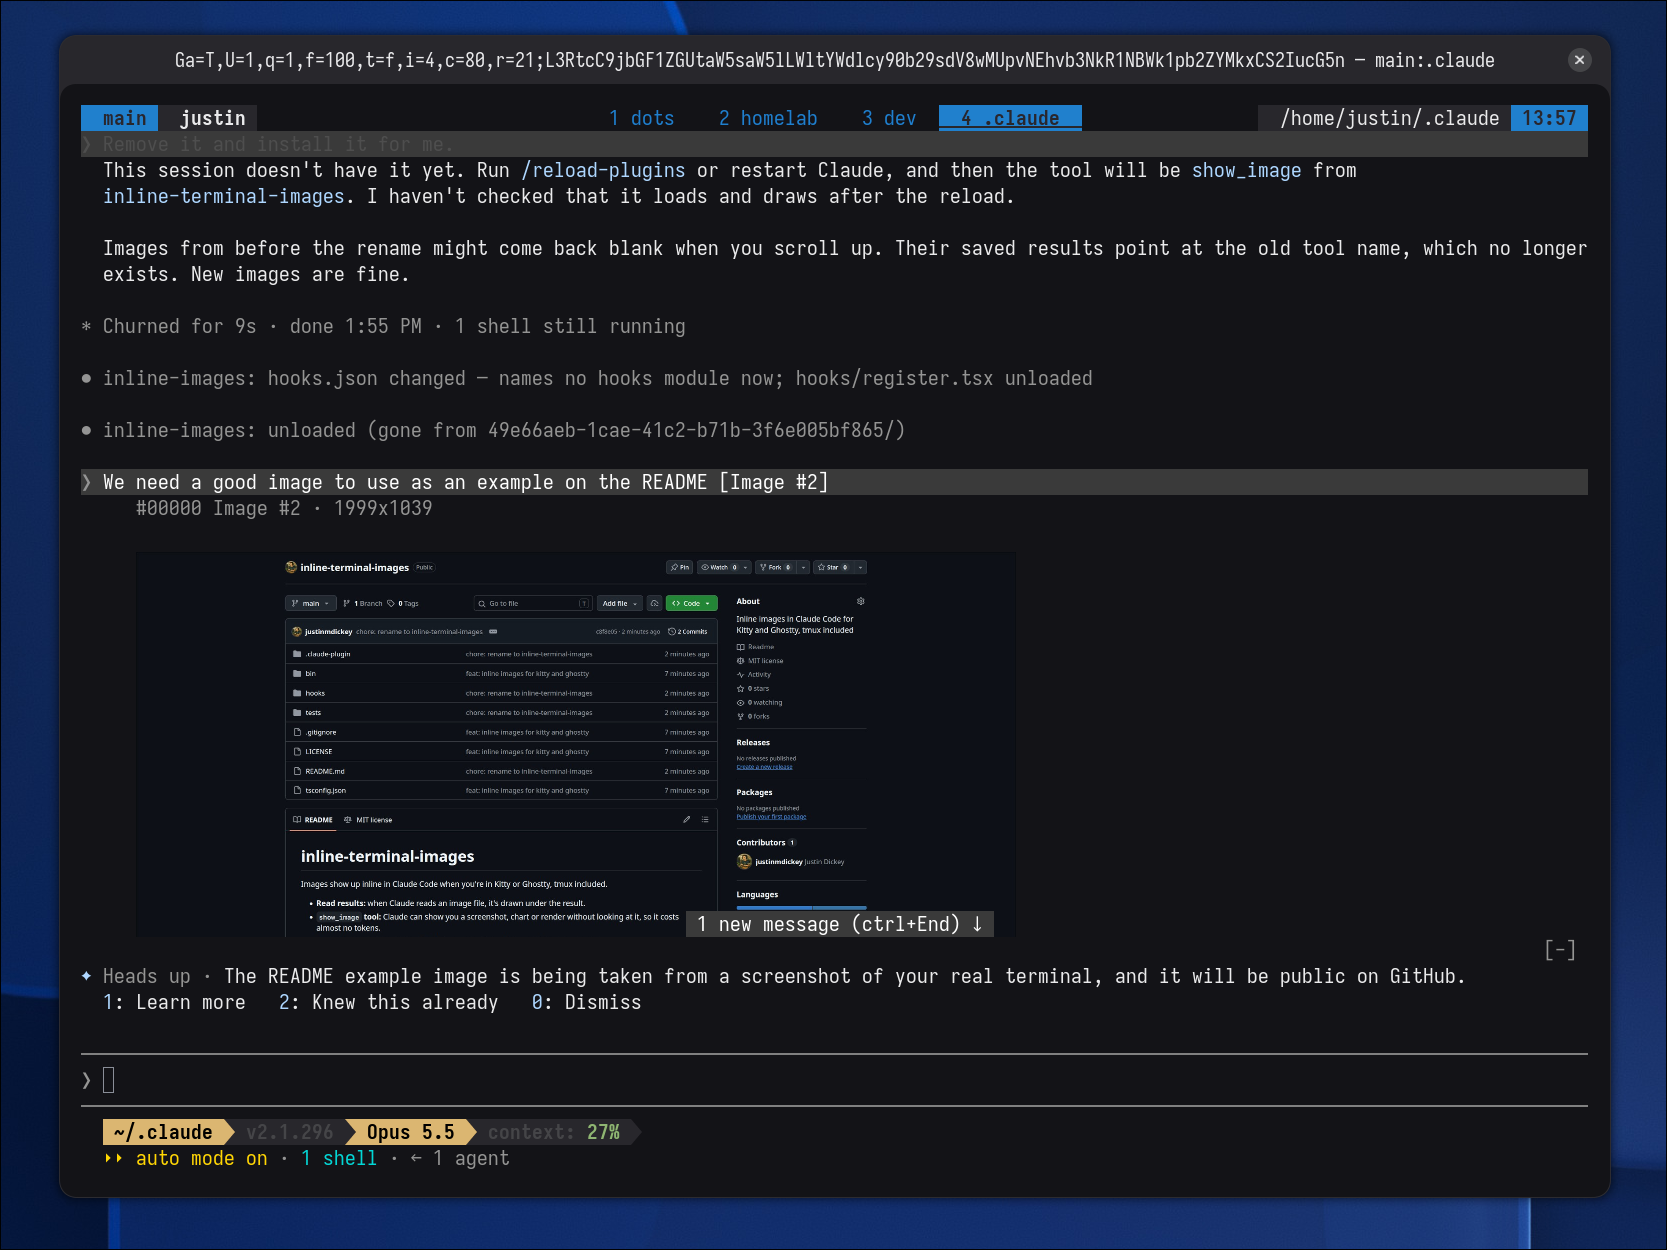
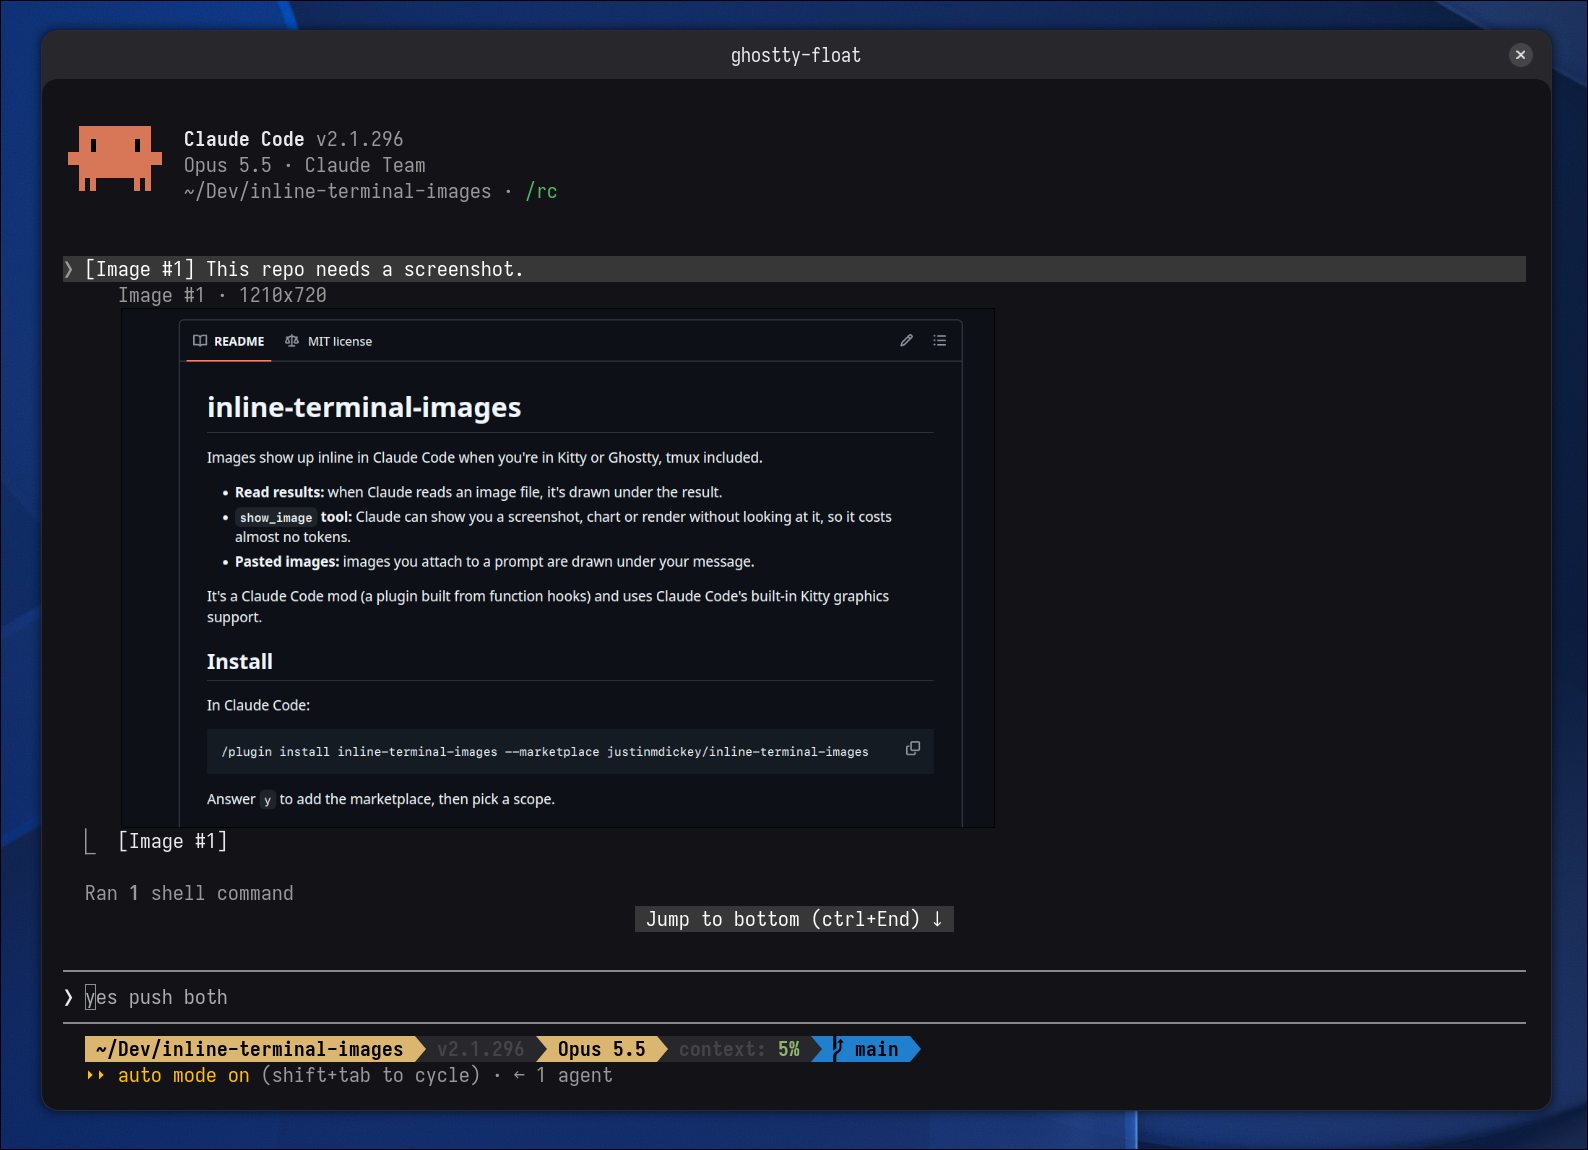
docs: replace demo screenshot
Claude-Session: https://claude.ai/code/session_01LjxK1NnrerU55TFW3RF9bi

Changed region(s): [[0.0, 0.0, 1.0, 1.0]]

diff --git a/README.md b/README.md
@@ -1,6 +1,6 @@
 # inline-terminal-images
 
-![A pasted screenshot drawn inline under a prompt in Claude Code, in Ghostty inside tmux](docs/demo.png)
+![A pasted screenshot drawn inline under a prompt in Claude Code, in Ghostty](docs/demo.png)
 
 Images show up inline in Claude Code when you're in Kitty or Ghostty, tmux included.
 
